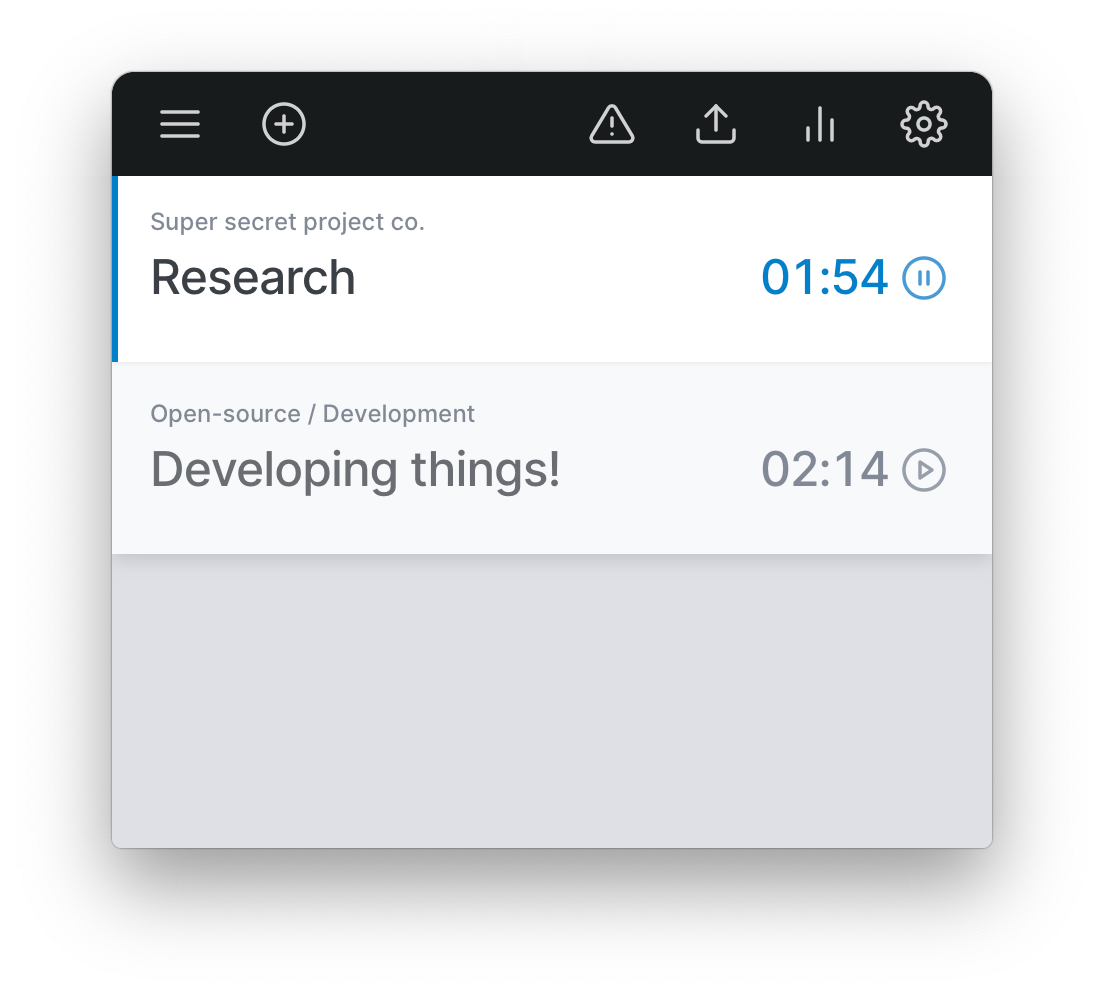
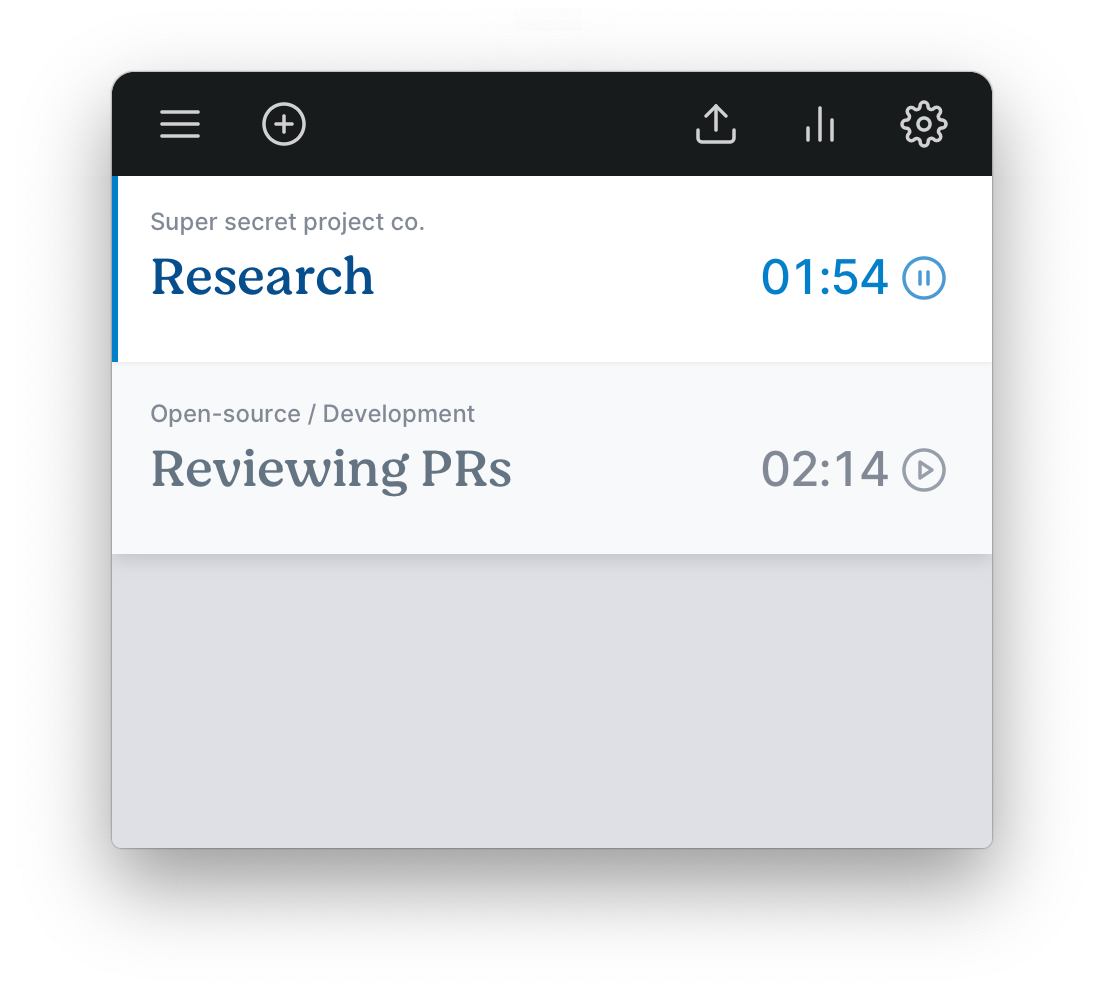
feat: Update copy & screenshots.

Changed region(s): [[0.1232, 0.4357, 0.5236, 0.498], [0.1232, 0.249, 0.3388, 0.3112], [0.5236, 0.0934, 0.5851, 0.1556]]

diff --git a/src/components/SignupForm/index.js b/src/components/SignupForm/index.js
@@ -1,57 +1,66 @@
 import { css } from '@emotion/core';
-import { Button, TextField } from '@octopusthink/nautilus';
+import { Button, Paragraph, TextField } from '@octopusthink/nautilus';
 import React from 'react';
 
 const SignupForm = () => {
   return (
-    <form
-      action="https://buttondown.email/api/emails/embed-subscribe/octolabs"
-      method="post"
-      target="popupwindow"
-      onsubmit="window.open('https://buttondown.email/octolabs', 'popupwindow')"
-      css={css`
-        text-align: center;
+    <React.Fragment>
+      <form
+        action="https://buttondown.email/api/emails/embed-subscribe/octolabs"
+        method="post"
+        target="popupwindow"
+        onSubmit="window.open('https://buttondown.email/octolabs', 'popupwindow')"
+        css={css`
+          margin-bottom: 3.2rem;
+          text-align: center;
 
-        @media screen and (min-width: 560px) {
-          display: flex;
-          align-items: flex-end;
-        }
-      `}
-    >
-      <input type="hidden" value="1" name="embed"></input>
-      <input type="hidden" name="tag" value="turnip-beta"></input>
-      <div
-        css={css`
-          @media screen and (max-width: 559px) {
-            margin-bottom: 1.6rem;
-          }
-          flex-grow: 1;
-          width: 100%;
-        `}
-      >
-        <TextField
-          label="Your email"
-          name="email"
-          id="bd-email"
-          type="email"
-          autocomplete="email"
-          noMargin
-        />
-      </div>
-      <Button
-        noMargin
-        primary
-        type="submit"
-        css={css`
-          white-space: nowrap;
           @media screen and (min-width: 560px) {
-            margin-left: 0.8rem;
+            display: flex;
+            align-items: flex-end;
           }
         `}
       >
-        Sign me up!
-      </Button>
-    </form>
+        <input type="hidden" value="1" name="embed" />
+        <input type="hidden" name="tag" value="turnip-beta" />
+        <div
+          css={css`
+            @media screen and (max-width: 559px) {
+              margin-bottom: 1.6rem;
+            }
+            flex-grow: 1;
+            width: 100%;
+          `}
+        >
+          <TextField
+            label="Your email"
+            name="email"
+            id="bd-email"
+            type="email"
+            autocomplete="email"
+            noMargin
+          />
+        </div>
+        <Button
+          noMargin
+          primary
+          type="submit"
+          css={css`
+            white-space: nowrap;
+            @media screen and (min-width: 560px) {
+              margin-left: 0.8rem;
+            }
+          `}
+        >
+          Sign me up!
+        </Button>
+      </form>
+
+      <Paragraph light small>
+        Your information will only be used to send beta notifications, and will never be sold to
+        anyone. You can unsubscribe at any time. Beta users will receive discounts on the full
+        product and our undying affection.
+      </Paragraph>
+    </React.Fragment>
   );
 };
 
